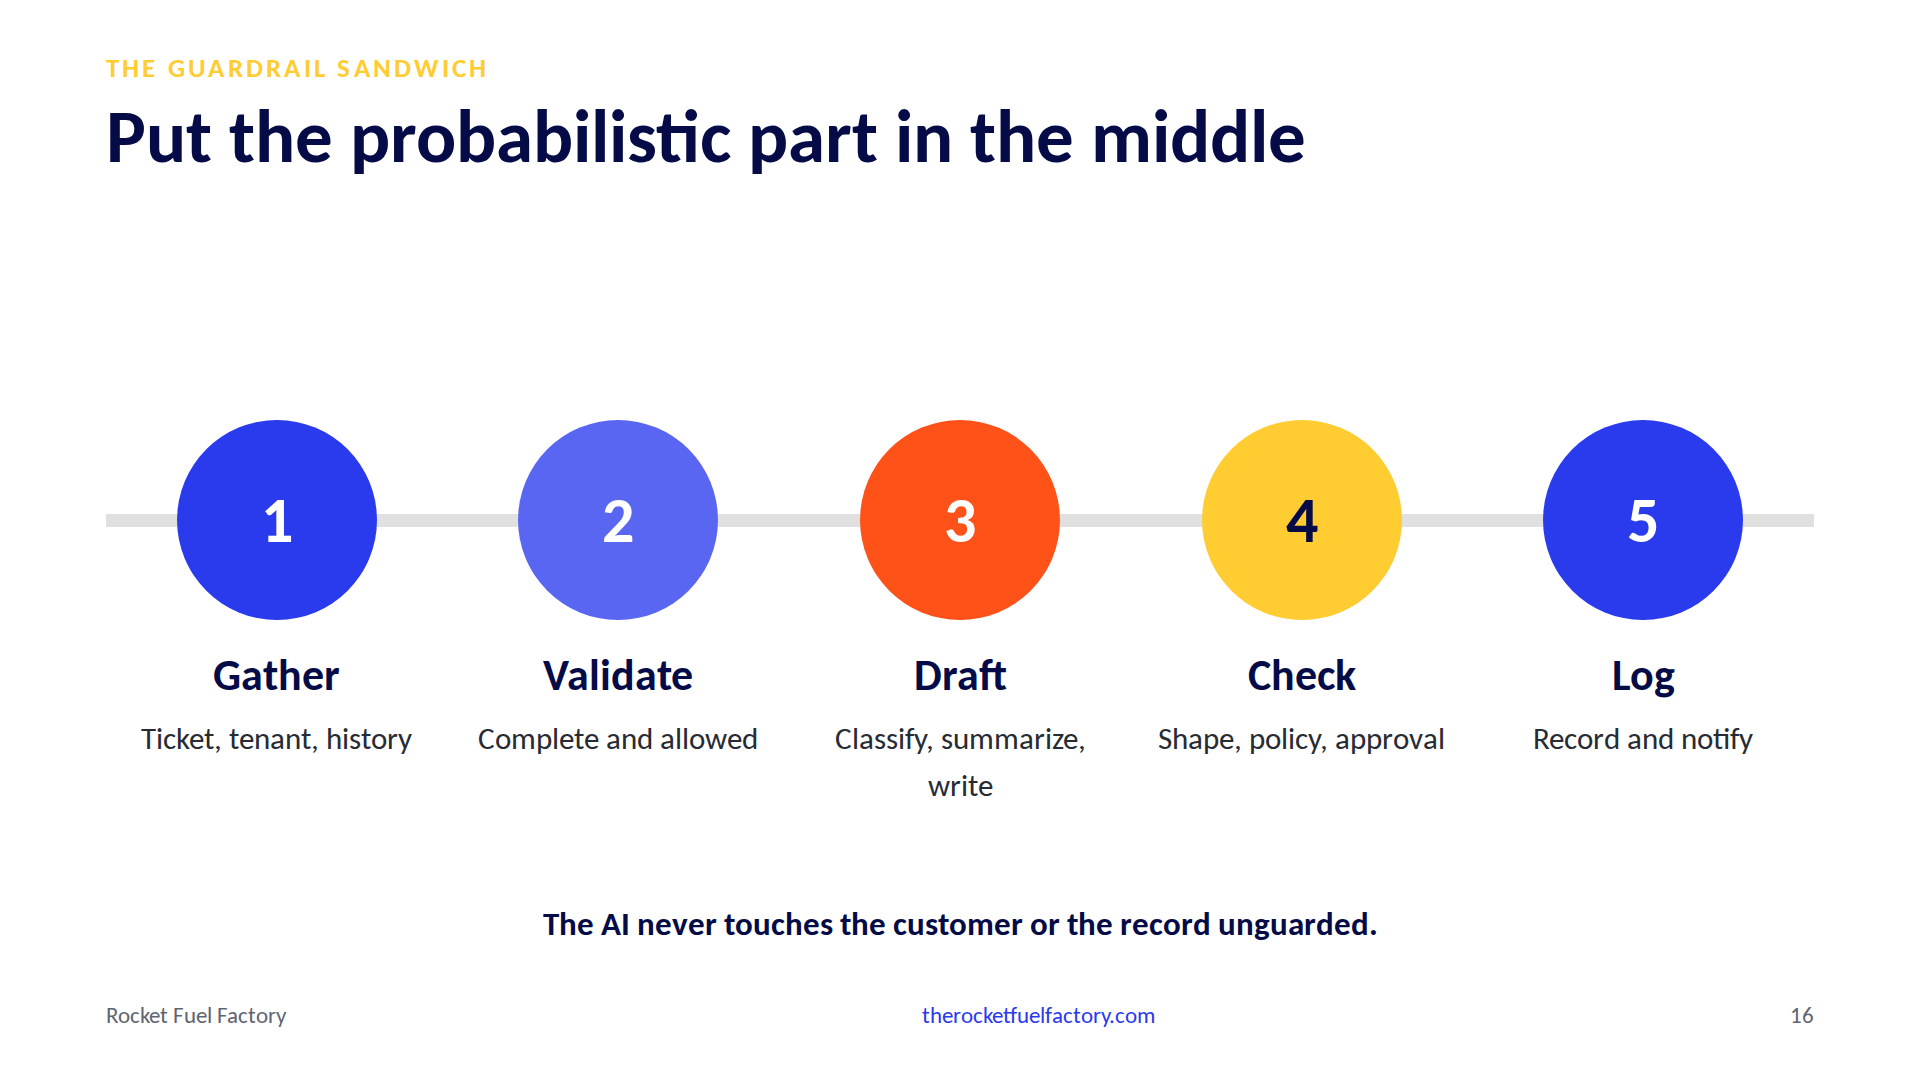
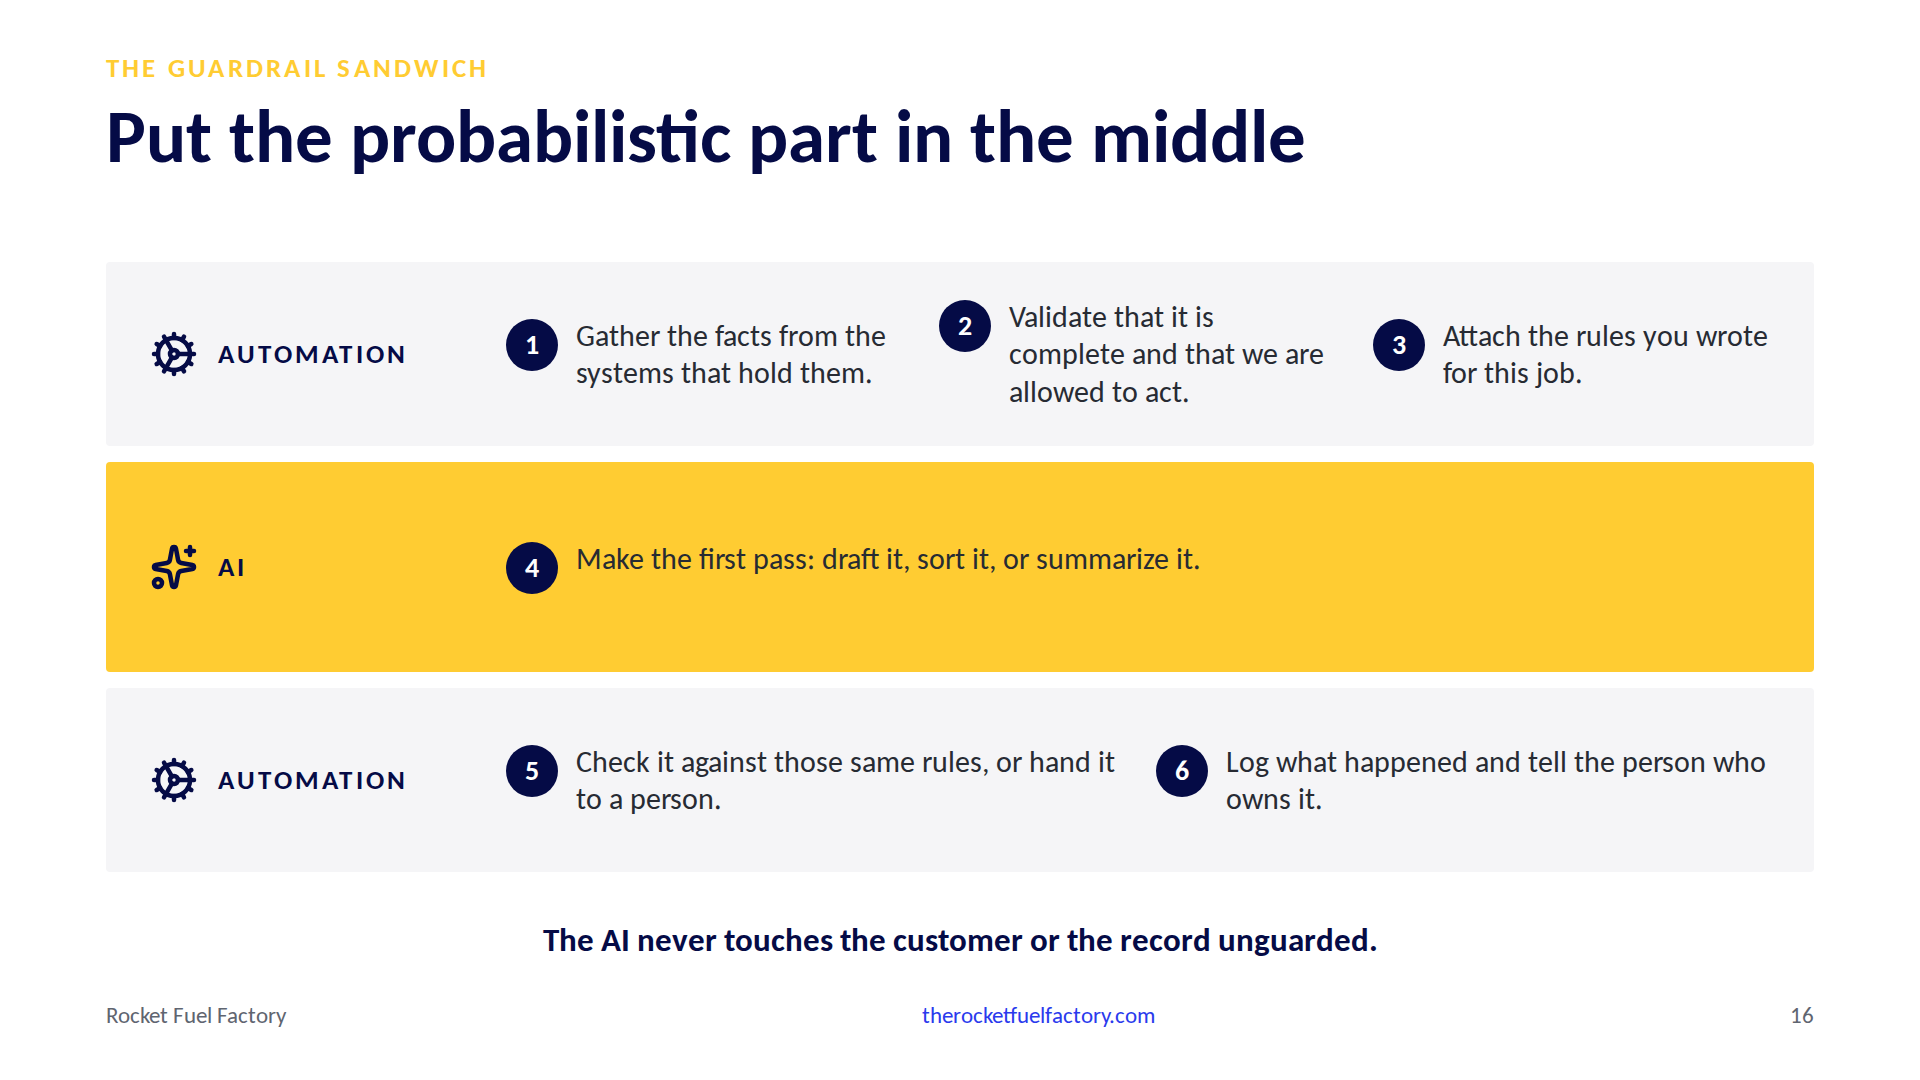
Slide 16: the sandwich as three bands, six generic steps, spoken note

diff --git a/src/data/notes.js b/src/data/notes.js
@@ -19,7 +19,7 @@ export const notes = {
   'the-wrong-things': 'Target 13:10. So the process is written down. Where do we point the machine? Here is what I keep seeing. The left column is what is being sold to MSPs right now, and it is being sold hard. An agent that answers the phone. An agent in the client\'s Teams. Password resets nobody touches. A quarterly review that writes itself. The right column is what I think we are actually buying. A phone that does not ring. A ticket that closes without a conversation. If I am honest, I think we buy these because deep down a lot of us do not like talking to customers, or we are a little afraid to. The call is the part of the day where something can go wrong in front of someone. Every one of those sounds like relief, and I get it. Here is the problem. The call you did not take is the call where you would have heard that Dana is shopping for a new MSP. The review meeting you skipped is the meeting where the next thing you sell them gets sold. Those conversations are the only part of this business a competitor cannot undercut on price. I am not saying the tools are bad. Some of them are very good at what they do. I am saying the aim is wrong. In the demo, the machine wrote the draft and I made the call to Dana. The machine never talked to her. That split is the whole point. The work that eats the day is on our side of the desk, reading one screen and typing into another, chasing the same approval, checking the same thing every morning. Nobody is going to miss doing that. Point the machine there, and spend the hours you get back in front of the customer.',
   'divider-where-ai-belongs': 'Target 15:10. The work is written down, so now I pick who does it. I have two machines and they are not the same. One follows the rules exactly and the other makes a good guess. The next three slides are how I split the work between them, how I keep the guessing one away from the customer and the record, and what it costs me to check.',
   'deterministic-vs-probabilistic': 'Target 15:40. Here is how I split it. Automation gets the work with an exact rule. If a ticket comes in from this client at this priority, do this. It does the same thing every single time, which means I can check it once, sign off on it, and let it run. And when it hits something the rule does not cover, it does not improvise. It errors, and I hear about it. AI gets the work where a good guess is enough. Draft the email. Sort the inbox. Summarize the ticket. It does something a little different every run, which is fine for a draft and not fine for a decision, so someone reads what it produces every time. And when the brief has a gap, the gap does not come back as an error. It comes back inside the answer, as a guess or as a question, and you only find it by reading. That Q2 line in the first email was a gap in the brief showing up in the answer. If that sounds like a lot of checking, think about what you already run. A tech at 4pm on a Tuesday is a probabilistic system, and you do not ban the tech. You put a second pair of eyes on the work that mattered. Same answer here. Here is what that looks like when you wire it up.',
-  'guardrail-sandwich': 'Target 17:40. Callback to Right of Boom, two minutes not eight. Emphasize the check step. Land on: the AI never touches the customer or the record unguarded.',
+  'guardrail-sandwich': 'Target 17:40. This is how I wire it up, and I call it the guardrail sandwich. The bread is automation. The filling is AI. The AI never touches anything on its own. Top slice first. Automation gathers the facts from the systems that actually hold them, so the AI is not guessing at what the ticket said or what the client has. It validates that the request is complete and that we are allowed to act on it at all, and if either of those fails it stops right there and a person hears about it. Then it attaches the rules you wrote for this job. That is the step most people skip. It is the brief from the demo, and it is the thing that turns a guess into a draft you would sign. Now the filling. The AI makes the first pass. It drafts, it sorts, it summarizes. That is the only thing it does, and it does it with the facts and the rules already in front of it. Bottom slice. Automation checks the result against those same rules, and if it cannot check something, it hands it to a person. Then it logs what happened and tells the person who owns it. The AI never sent anything, never changed a record, never talked to a customer. It made a first pass in the middle of a process that was written down on both sides of it. If you saw me at Right of Boom, this is the same sandwich with the security taken out and the day to day put in. Here is what it costs.',
   'honest-limit': 'Target 20:10. Line to land: the cost of AI is not tokens, it is review. A client cannot audit a vibe, they can audit a log. Sets up Bradley at 3:15.',
   'the-more': 'Target 21:40. SLOW. This is the title. Your own shop is the starting line. Your customers have the same automatons: invoices, approvals, renewals, same screens, same retyping. Nobody is selling them the fix. You just learned how. That is the more.',
   'one-action': 'Target 23:40. End on the action, not a thank you. Read it as instructions, slowly. The employee you would hate to lose is the person the process lives in; that is why you would hate to lose them. The thing they dread once a month is the automaton work. Writing it down is Aharon: the process does not exist until it is said out loud. The two questions are the whole talk: could anyone else follow it is delegation, could it be automated is the more. Then hand off: Erik and Atul are about to talk about the version of this where the person the process lives in is you.',

diff --git a/src/components/slides/017-GuardrailSandwich.jsx b/src/components/slides/017-GuardrailSandwich.jsx
@@ -1,20 +1,74 @@
-import ProcessFlow from '../layouts/ProcessFlow'
+import { Cog, Sparkles } from 'lucide-react'
+import ContentFrame from '../chrome/ContentFrame'
+
+// The sandwich drawn as a sandwich: navy bread above and below (automation,
+// cog), gold filling in the middle (AI, sparkles). Same five steps as before,
+// in plain sentences. Inspired by the Right of Boom 2026 stack, not copied.
+
+const LEFT = 106
+const WIDTH = 1708
+const TOP = 262
+const GAP = 16
+const BREAD_H = 184
+const FILL_H = 210
+const LABEL_W = 400
+
+function Step({ n, text, light }) {
+  return (
+    <div className="flex items-start gap-[18px]">
+      <span
+        className={`mt-[2px] flex h-[52px] w-[52px] shrink-0 items-center justify-center rounded-full text-[28px] font-bold ${
+          light ? 'bg-white/15 text-white' : 'bg-rff-navy text-white'
+        }`}
+      >
+        {n}
+      </span>
+      <p className={`text-[30px] leading-[1.25] ${light ? 'text-white' : 'text-rff-body'}`}>{text}</p>
+    </div>
+  )
+}
+
+function Band({ top, height, bg, light, Icon, label, children }) {
+  return (
+    <div className="absolute flex rounded-[4px]" style={{ left: LEFT, top, width: WIDTH, height }} data-band>
+      <div className={`absolute inset-0 rounded-[4px] ${bg}`} />
+      <div className="relative flex items-center gap-[20px] pl-[44px]" style={{ width: LABEL_W }}>
+        <Icon size={48} strokeWidth={2.25} className={light ? 'text-white' : 'text-rff-navy'} aria-hidden="true" />
+        <span className={`text-[27px] font-bold uppercase tracking-[0.12em] ${light ? 'text-white' : 'text-rff-navy'}`}>
+          {label}
+        </span>
+      </div>
+      <div className="relative flex flex-1 items-center gap-[36px] pr-[44px]">{children}</div>
+    </div>
+  )
+}
 
 export default function GuardrailSandwich({ slideNumber }) {
+  const t1 = TOP
+  const t2 = t1 + BREAD_H + GAP
+  const t3 = t2 + FILL_H + GAP
   return (
-    <ProcessFlow
+    <ContentFrame
       eyebrow="The Guardrail Sandwich"
       title="Put the probabilistic part in the middle"
       accent="gold"
       slideNumber={slideNumber}
-      steps={[
-        { title: 'Gather', description: 'Ticket, tenant, history' },
-        { title: 'Validate', description: 'Complete and allowed' },
-        { title: 'Draft', description: 'Classify, summarize, write' },
-        { title: 'Check', description: 'Shape, policy, approval' },
-        { title: 'Log', description: 'Record and notify' },
-      ]}
-      closing="The AI never touches the customer or the record unguarded."
-    />
+    >
+      <Band top={t1} height={BREAD_H} bg="bg-rff-light" Icon={Cog} label="Automation">
+        <div className="flex-1"><Step n={1} text="Gather the facts from the systems that hold them." /></div>
+        <div className="flex-1"><Step n={2} text="Validate that it is complete and that we are allowed to act." /></div>
+        <div className="flex-1"><Step n={3} text="Attach the rules you wrote for this job." /></div>
+      </Band>
+      <Band top={t2} height={FILL_H} bg="bg-rff-gold" Icon={Sparkles} label="AI">
+        <div className="flex-1"><Step n={4} text="Make the first pass: draft it, sort it, or summarize it." /></div>
+      </Band>
+      <Band top={t3} height={BREAD_H} bg="bg-rff-light" Icon={Cog} label="Automation">
+        <div className="flex-1"><Step n={5} text="Check it against those same rules, or hand it to a person." /></div>
+        <div className="flex-1"><Step n={6} text="Log what happened and tell the person who owns it." /></div>
+      </Band>
+      <p className="absolute text-center text-[33px] font-bold text-rff-navy" style={{ left: LEFT, top: 916, width: WIDTH }}>
+        The AI never touches the customer or the record unguarded.
+      </p>
+    </ContentFrame>
   )
 }

diff --git a/docs/OUTLINE.md b/docs/OUTLINE.md
@@ -52,7 +52,7 @@ Closing line: If you can't write the rule, you can't hire your way out of it eit
 13. Most MSPs automate the wrong things (comparison, orange). Automating the customer away: ticket auto-replies, templated QBRs, kickoff calls nobody attends. Automating the automaton: reading one screen and typing into another, checking the same thing every morning, chasing the same approval. Line: automate to give time back to the customer, not to hide from them. Bridge: once the automaton work is written down, two machines can take it; the next three slides are which gets what.
 14. Divider: Where AI belongs (gold). Fast is only a gift once you have said what good looks like.
 15. What I hand to each machine (comparison, gold, level pairs, Lucide cog and sparkles in the headers). Automation: work with an exact rule, if this then that; same thing every time so you check it once; a gap in the rule shows up as an error. AI: work where a good guess is enough, drafting, sorting, summarizing; a little different every run so someone checks every time; a gap in the brief shows up in the answer. Footer, one sentence: you already run a probabilistic system: a tech at 4pm on a Tuesday. First person title so the split is Tim's rule, not a vendor's law (Opus, 14 Sep).
-16. The Guardrail Sandwich (process flow, gold). Gather, validate, draft, check, log. The AI never touches the customer or the record unguarded. Right of Boom callback, two minutes.
+16. The Guardrail Sandwich (gold). Drawn as a sandwich: grey bread above and below (automation, cog), gold filling (AI, sparkles). Six generic steps, nothing names the email: gather the facts from the systems that hold them; validate complete and allowed; attach the rules you wrote for this job; (AI) make the first pass, draft, sort, or summarize; check against those same rules or hand to a person; log and tell the owner. Footer: the AI never touches the customer or the record unguarded. Note walks the slices, names step 3 as the one people skip and the brief from the demo, one-line Right of Boom callback, hands to 17 with "here is what it costs". Inspired by the Right of Boom 2026 stack, not copied.
 17. The honest limit (two-column, gold). The cost of AI isn't tokens, it's review. A client can't audit a vibe; they can audit a log. Sets up Bradley.
 18. The more (two-column, blue). SLOW. Your customers have automatons too: invoices, approvals, new hires, renewals. Nobody is selling them the fix. You get hours to be present, a case study they watched you build, the next line on the invoice.
 19. One action (closing). Tim's words: sit with one employee you would hate to lose. Ask what they do at least once a month that they dread. Work out the unwritten process behind it and write it down. Then two questions: could anyone else follow this, could some or all of it be automated. Say "this month" aloud. Hand to Erik and Atul: the version where the person the process lives in is you. No Table 3 reference; speakers were never asked to brief the tables.
